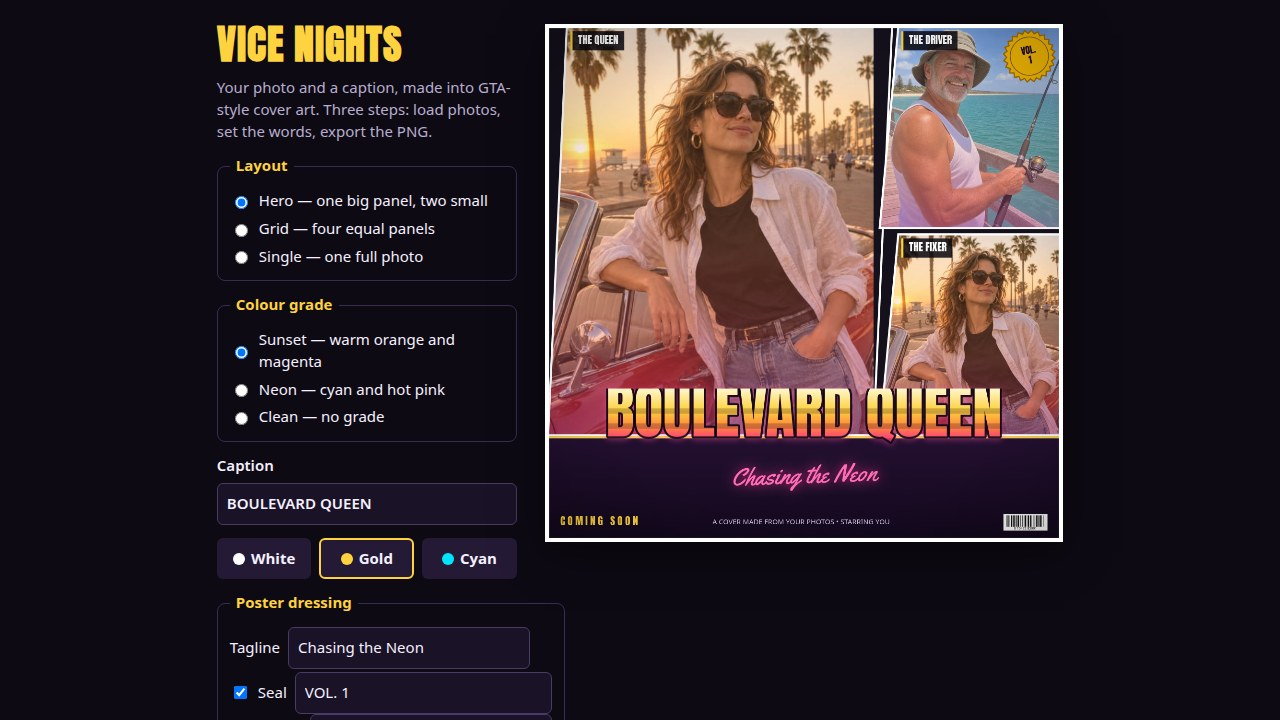
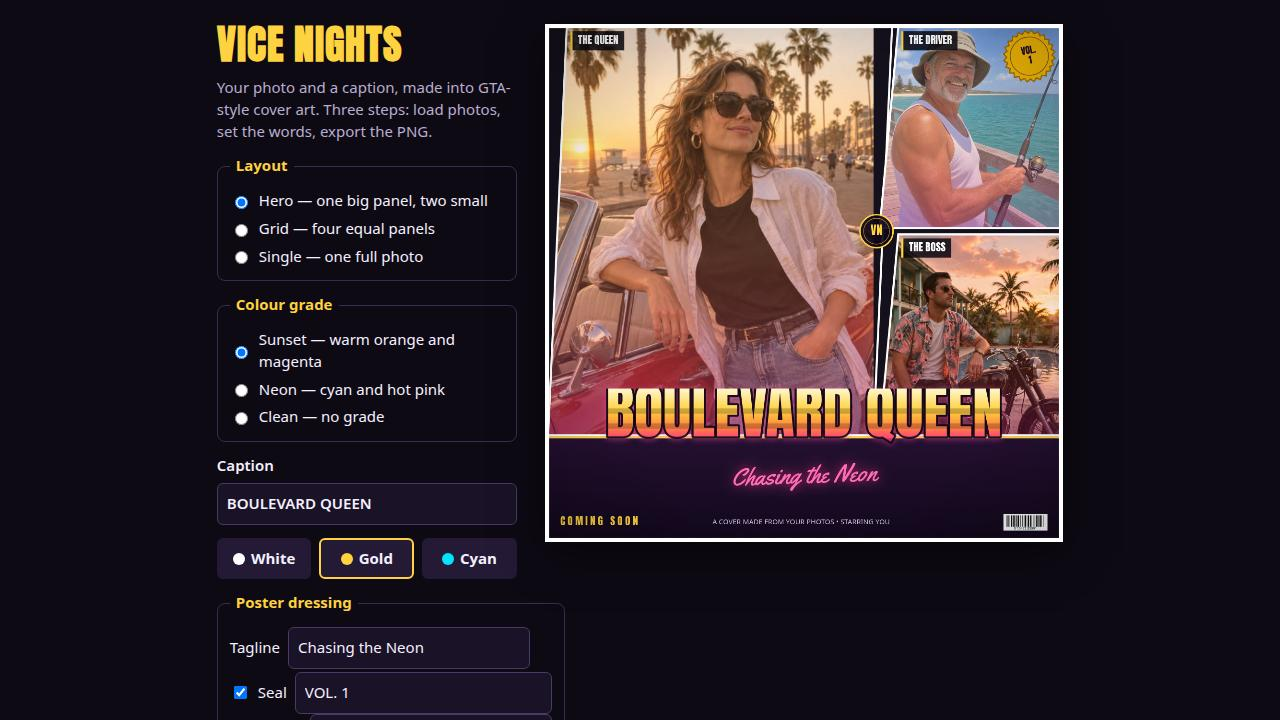
Final polish: 2 new samples (neon-street, motel-pool), distinct photo per panel, VN center emblem

diff --git a/app/src/cover.js b/app/src/cover.js
@@ -269,6 +269,33 @@ function drawSeal(ctx, text, w, h) {
   ctx.restore();
 }
 
+/** A small gold-ringed monogram emblem where the panels meet, like a poster badge. */
+function drawEmblem(ctx, layout, w, areaH) {
+  if (layout === 'single') return;
+  const cx = layout === 'grid' ? w * 0.5 : w * 0.64;
+  const cy = areaH * 0.5;
+  const r = Math.max(16, w * 0.032);
+  ctx.save();
+  ctx.beginPath();
+  ctx.arc(cx, cy, r, 0, Math.PI * 2);
+  ctx.fillStyle = 'rgba(16, 8, 24, 0.92)';
+  ctx.fill();
+  ctx.lineWidth = Math.max(2, r * 0.09);
+  ctx.strokeStyle = '#ffd23f';
+  ctx.stroke();
+  ctx.beginPath();
+  ctx.arc(cx, cy, r * 0.78, 0, Math.PI * 2);
+  ctx.strokeStyle = 'rgba(255, 210, 63, 0.6)';
+  ctx.lineWidth = Math.max(1, r * 0.04);
+  ctx.stroke();
+  ctx.fillStyle = '#ffd23f';
+  ctx.font = `${r * 0.72}px Anton, 'Arial Narrow', sans-serif`;
+  ctx.textAlign = 'center';
+  ctx.textBaseline = 'middle';
+  ctx.fillText('VN', cx, cy + r * 0.04);
+  ctx.restore();
+}
+
 /** Draws the whole cover onto the canvas. */
 export function drawCover(canvas, state) {
   const ctx = canvas.getContext('2d');
@@ -315,6 +342,9 @@ export function drawCover(canvas, state) {
     ctx.stroke();
     ctx.restore();
   });
+
+  // Monogram emblem where the panels meet.
+  drawEmblem(ctx, state.layout, w, areaH);
 
   // A gold rule above the caption band.
   ctx.fillStyle = '#ffd23f';

diff --git a/app/src/main.js b/app/src/main.js
@@ -76,6 +76,8 @@ function buildPanelRows() {
       <span class="sample-buttons">
         <button type="button" data-sample="boulevard" data-panel="${i}">Boulevard</button>
         <button type="button" data-sample="pier" data-panel="${i}">Pier</button>
+        <button type="button" data-sample="neon-street" data-panel="${i}">Neon Street</button>
+        <button type="button" data-sample="motel-pool" data-panel="${i}">Motel Pool</button>
       </span>
       <label>Character tag <input type="text" maxlength="16" value="${(state.panels[i].tag ?? TAG_DEFAULTS[i]).replace(/"/g, '&quot;')}" data-tag="${i}"></label>
       <label>Zoom <input type="range" min="1" max="2.5" step="0.05" value="${state.panels[i].zoom}" data-zoom="${i}"></label>`;

diff --git a/BUILD.md b/BUILD.md
@@ -63,3 +63,33 @@ was read for plumbing and replaced.
   any size works, but very small photos will look soft when enlarged.
 - Empty panels show a dusk gradient (by design — the cover never shows a hole).
 - NOT submitted, recording NOT sealed — parent seals and submits.
+
+## Polish pass (21 Nov ~16:25-16:52 WIB, commit 265935c, same recording 01a1fd4f)
+
+Why: GLM sim vs top-5 leaderboard (TOP5-SIM.md) lost 0-10; judge said "flat white
+caption on a dark band", "no character tags, no title treatment, no tagline".
+Added poster dressing to the exported cover, all user-editable:
+- Chrome title: gradient fill (gold/cyan/silver by caption colour) + dark outline +
+  sunset stripes (drawn on an offscreen layer so stripes touch letters only),
+  overlapping the panels and the caption band.
+- Per-panel character name tags (top-left inside each panel, black tag + gold slash;
+  slant-aware x offset so the clip never cuts the tag). Defaults THE DRIVER /
+  THE FIXER / THE BOSS / THE LOOKOUT, editable per panel.
+- Neon script tagline (Yellowtail, Apache 2.0, vendored under app/fonts/ with
+  Yellowtail-LICENSE.txt), default "Chasing the Neon", editable.
+- Gold starburst seal (default "VOL. 1", toggleable), billing block (default
+  "A COVER MADE FROM YOUR PHOTOS • STARRING YOU", toggleable), decorative
+  barcode (deterministic bars), COMING SOON footer (toggleable).
+- New "Poster dressing" fieldset in the editor; shots.js takes tagline/seal/
+  billing/coming/tag1-4 query params; shots.json updated for all 4 shots.
+- No fake review quotes or star ratings anywhere (review strip deliberately skipped).
+- Fixed during polish: name tags clipped by the panel slant (offset by slant shift
+  at the tag's height).
+Verification: Playwright functional test 10/10 PASS (upload, grid, caption/tagline/
+tag edits, grade switch, dressing toggles, drag-to-pan, export 1080x1080 +
+1080x1350 + 1920x1080 exact PNGs, zero page errors). All 4 screenshots re-captured
+and read by eye; real export PNG read by eye. Dossier check (temp copy):
+schema makefun/dossier/v1, 4 images, 14 app files. Remote master verified equal
+to 265935c. NOTE: this BUILD.md file was swept into commit 265935c by gh_push.py's
+whole-tree push (it is repo-root documentation, outside app/, so it does not
+affect the dossier or the scorer).
